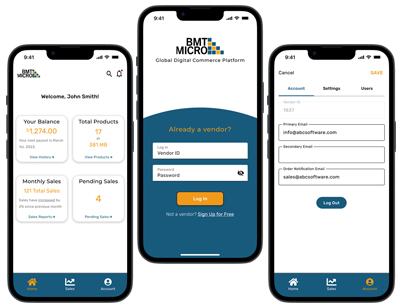
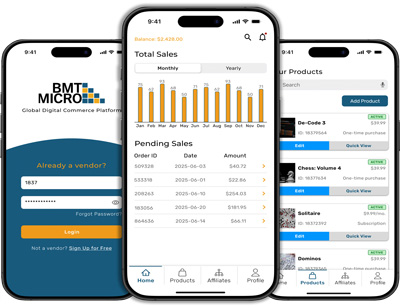
Updating file/name

diff --git a/src/Components/Portfolio/ProjectsArray.js b/src/Components/Portfolio/ProjectsArray.js
@@ -22,8 +22,7 @@ import appLogo1 from './images/app-logo-1.jpg';
 import appLogo2 from './images/app-logo-2.jpg';
 import ilmBrewLogo from './images/ilm-brew-logo.jpg';
 import FoodTruckScreens from './images/food-truck-screens.jpg';
-// import BMTappScreens from './images/bmt-app-screens.jpg';
-import BMTappScreensNew from './images/bmt-app-images_new.jpg'
+import BMTappScreens from './images/bmt-app-screens.jpg';
 import autoGaragePhoto from './images/auto-garage-landing-wireframe-400px.jpg';
 import foodTruckCaseStudy from './images/food-truck-finder-case-study.jpg';
 import roundedHotelPhoto from './images/rounded-hotel-wireframe-400px.jpg';
@@ -31,7 +30,7 @@ import roundedHotelPhoto from './images/rounded-hotel-wireframe-400px.jpg';
 const projects = [
   {
     title: "BMT Micro App",
-    image: BMTappScreensNew,
+    image: BMTappScreens,
     url: "https://www.behance.net/gallery/230165753/BMT-Micro-Mobile-App",
     category: "Design, Prototype",
     description: "A sample project for a BMT Micro mobile app. These designs were created using Figma.",
